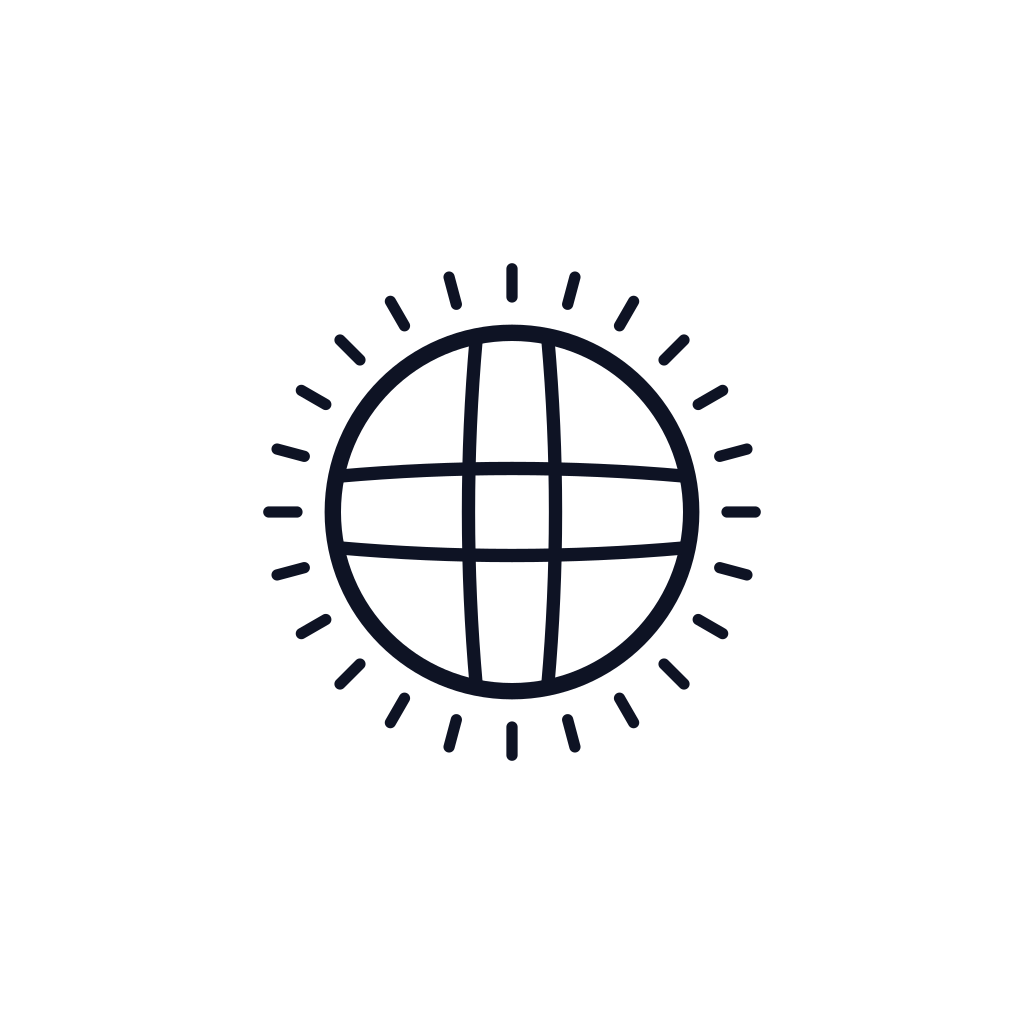
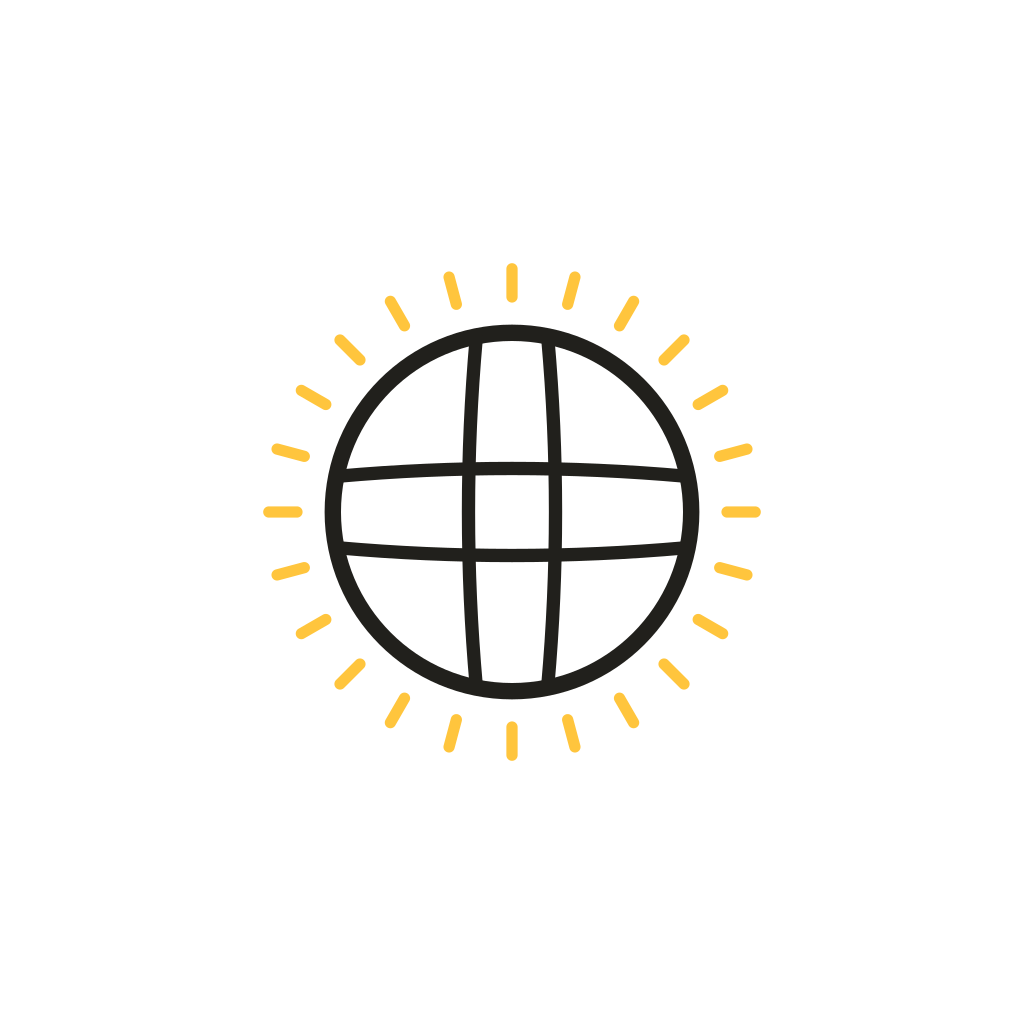
Бренд «Алтын шаңырақ»: иконка, надпись и заставка в одном цвете
Иконка: купол чернилами, лучи золотом (amber-9), как у свайпа. Надпись
AiQonaq: «Ai» коричневым (brown-11), «Qonaq» чернилами. Заставка рисует
тот же знак: золотые лучи, купол один раз «вздыхает», под названием
раскрывается линия орнамента. Сайт не меняется.

Claude-Session: https://claude.ai/code/session_01Shf2V2kq4hFVPqhUaKwMzQ

diff --git a/mobile/src/EntrySplash.tsx b/mobile/src/EntrySplash.tsx
@@ -7,9 +7,9 @@ import {C} from './styles';
 
 // The layers of the sign, drawn by scripts/build-brand-assets.mjs from the same drawing as the site's (lib/brand.ts).
 const ringImage=require('../assets/brand/dome-ring.png'),barsUpright=require('../assets/brand/dome-bars-v.png'),barsLevel=require('../assets/brand/dome-bars-h.png');
-// Monochrome since 2026-11-26 (the new style of the app, board «Экраны старой версии»): a white plate, the sign and the
-// name in ink, no glow and no gold. The story is the same drawing, only quicker.
-const nameImage=require('../assets/brand/wordmark.png');
+// «Алтын шаңырақ» since 2026-11-28, the same as the app icon (scripts/build-brand-assets.mjs): a white plate, the crown
+// in ink, its rays in gold, the name with «Ai» in brown; one line of the ornament opens under the name.
+const nameImage=require('../assets/brand/wordmark.png'),ornament=require('../assets/brand/ornament.png');
 // The story is short: about a second and a half, longer only while the first data is still on its way.
 // K squeezes the timings of the drawing (they were made for three and a half seconds) into that time.
 const SIZE=160,HALF=SIZE/2,U=SIZE/100,MIN_STORY=1500,MAX_WAIT=6000,K=.42;
@@ -24,7 +24,7 @@ const native=Platform.OS!=='web';
 
 const values=()=>({
   ring:new Animated.Value(0),bars:BAR_STARTS.map(()=>new Animated.Value(0)),
-  rays:new Animated.Value(0),spread:new Animated.Value(0),name:new Animated.Value(0),line:new Animated.Value(0),
+  rays:new Animated.Value(0),spread:new Animated.Value(0),shine:new Animated.Value(0),name:new Animated.Value(0),line:new Animated.Value(0),orn:new Animated.Value(0),
   // What the opening takes away: the lid of the window, the words, the bars, the sign itself; and the plain fade for calm motion.
   lid:new Animated.Value(1),words:new Animated.Value(1),lattice:new Animated.Value(1),sign:new Animated.Value(1),open:new Animated.Value(0),fade:new Animated.Value(1),
 });
@@ -41,7 +41,8 @@ export function EntryStatusBar(){
 // (the site keeps its night plate):
 //   1. the шаңырақ, the crown of a yurt, is put together line by line — the ring is drawn, the four bars cross it;
 //   2. the roof poles spread around it as rays;
-//   3. the name comes up under it, then the line «Сервис поиска аренды жилья и досуга»;
+//   2b. when the last ray is in, the crown breathes once (a small swell and back), as the sun in the шаңырақ;
+//   3. the name comes up under it, the line of the ornament opens from its middle, then «Сервис поиска аренды жилья и досуга»;
 //   4. the crown opens: its ring becomes a window, and the window widens until the whole screen is in it.
 // It waits for the first data (so the map is ready under it), but never longer than a few seconds.
 // There is no vector drawing in the app, so the sign is made of pictures behind moving windows, and the plate with its
@@ -69,12 +70,13 @@ export function EntrySplash(){
     timers.push(setTimeout(exit,MAX_WAIT));
     AccessibilityInfo.isReduceMotionEnabled().catch(()=>false).then(reduced=>{
       if(!alive)return;calm=!!reduced;
-      if(calm){[a.ring,...a.bars,a.rays,a.spread,a.name,a.line].forEach(value=>value.setValue(1));timers.push(setTimeout(()=>{storyDone=true;maybeExit();},450));return;}
+      if(calm){[a.ring,...a.bars,a.rays,a.spread,a.name,a.line,a.orn].forEach(value=>value.setValue(1));timers.push(setTimeout(()=>{storyDone=true;maybeExit();},450));return;}
       const fast=(value:Animated.Value,toValue:number,duration:number,delay=0,easing?:(t:number)=>number)=>to(value,toValue,duration*K,delay*K,easing);
       Animated.parallel([
         fast(a.ring,1,900,150,PEN),...a.bars.map((bar,i)=>fast(bar,1,600,BAR_STARTS[i],PEN)),
         fast(a.spread,1,1500,1400,SOFT),fast(a.rays,1,RAYS_TIME,1400,Easing.linear),
-        fast(a.name,1,700,1900,SOFT),fast(a.line,1,700,2250,SOFT),
+        Animated.sequence([Animated.delay((1400+RAYS_TIME)*K),fast(a.shine,1,260,0,SOFT),fast(a.shine,0,420,0,PEN)]),
+        fast(a.name,1,700,1900,SOFT),fast(a.orn,1,800,2050,SOFT),fast(a.line,1,700,2250,SOFT),
       ]).start();
       timers.push(setTimeout(()=>{storyDone=true;maybeExit();},Math.max(0,MIN_STORY-(Date.now()-started))));
     });
@@ -91,7 +93,7 @@ export function EntrySplash(){
       <View style={st.sign}>
         <Animated.View style={[st.lid,{opacity:a.lid}]}/>
         <Animated.View style={[st.plate,plate,{transform:[{scale:grow(1,reach/WINDOW*1.06)}]}]}/>
-        <Animated.View style={[st.box,{opacity:a.sign,transform:[{scale:grow(1,2.4)}]}]}>
+        <Animated.View style={[st.box,{opacity:a.sign,transform:[{scale:grow(1,2.4)},{scale:a.shine.interpolate({inputRange:[0,1],outputRange:[1,1.06]})}]}]}>
           <Animated.View style={[st.box,{transform:[{rotate:a.spread.interpolate({inputRange:[0,1],outputRange:['-14deg','0deg']})},{scale:a.spread.interpolate({inputRange:[0,1],outputRange:[.84,1]})}]}]}>
             {RAYS.map(i=><View key={i} style={[st.box,{transform:[{rotate:`${i*360/DOME_RAYS}deg`}]}]}>
               <Animated.View style={[st.ray,{opacity:a.rays.interpolate({inputRange:[i*RAY_STEP/RAYS_TIME,(i*RAY_STEP+RAY_FADE)/RAYS_TIME],outputRange:[0,1],extrapolate:'clamp'})}]}/>
@@ -107,7 +109,8 @@ export function EntrySplash(){
         </Animated.View>
       </View>
       <Animated.View style={[st.words,{opacity:a.words,transform:[{translateY:a.words.interpolate({inputRange:[0,1],outputRange:[8,0]})}]}]}>
-        <Animated.Image source={nameImage} style={[st.name,st.ink,up(a.name)]}/>
+        <Animated.Image source={nameImage} style={[st.name,up(a.name)]}/>
+        <Animated.Image source={ornament} resizeMode="contain" accessibilityIgnoresInvertColors style={[st.ornament,{opacity:a.orn,transform:[{scaleX:a.orn}]}]}/>
         <Animated.Text style={[st.line,up(a.line)]}>{t(BRAND_LINE)}</Animated.Text>
       </Animated.View>
     </View>
@@ -157,8 +160,9 @@ const st=StyleSheet.create({
   rightHalf:{position:'absolute',left:HALF,top:0,width:HALF,height:SIZE,overflow:'hidden'},
   upperHalf:{position:'absolute',left:0,top:0,width:SIZE,height:HALF,overflow:'hidden'},
   lowerHalf:{position:'absolute',left:0,top:HALF,width:SIZE,height:HALF,overflow:'hidden'},
-  ray:{position:'absolute',left:HALF-RAY_WIDE/2,top:HALF-DOME_RAY_TO*U,width:RAY_WIDE,height:RAY_LONG,borderRadius:RAY_WIDE/2,backgroundColor:C.ink},
+  ray:{position:'absolute',left:HALF-RAY_WIDE/2,top:HALF-DOME_RAY_TO*U,width:RAY_WIDE,height:RAY_LONG,borderRadius:RAY_WIDE/2,backgroundColor:C.gold},
   words:{alignItems:'center',gap:4},
   name:{width:240,height:64},
+  ornament:{width:264,height:12,marginVertical:4,tintColor:C.accent},
   line:{fontSize:14,lineHeight:20,letterSpacing:.1,color:C.muted},
 });
